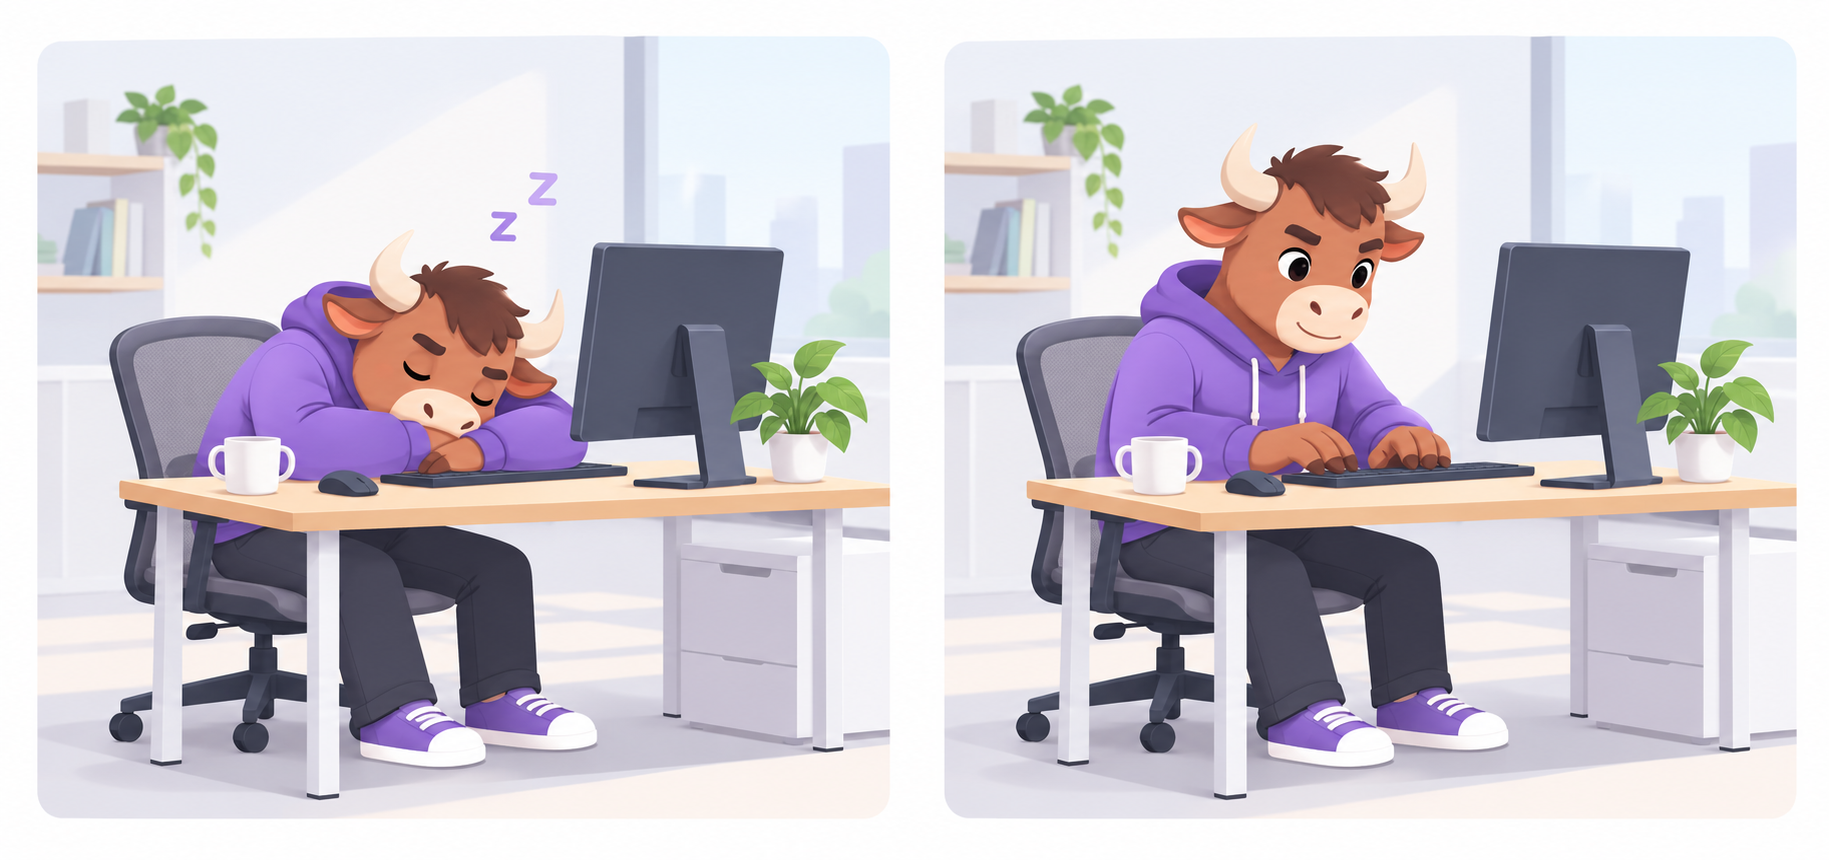
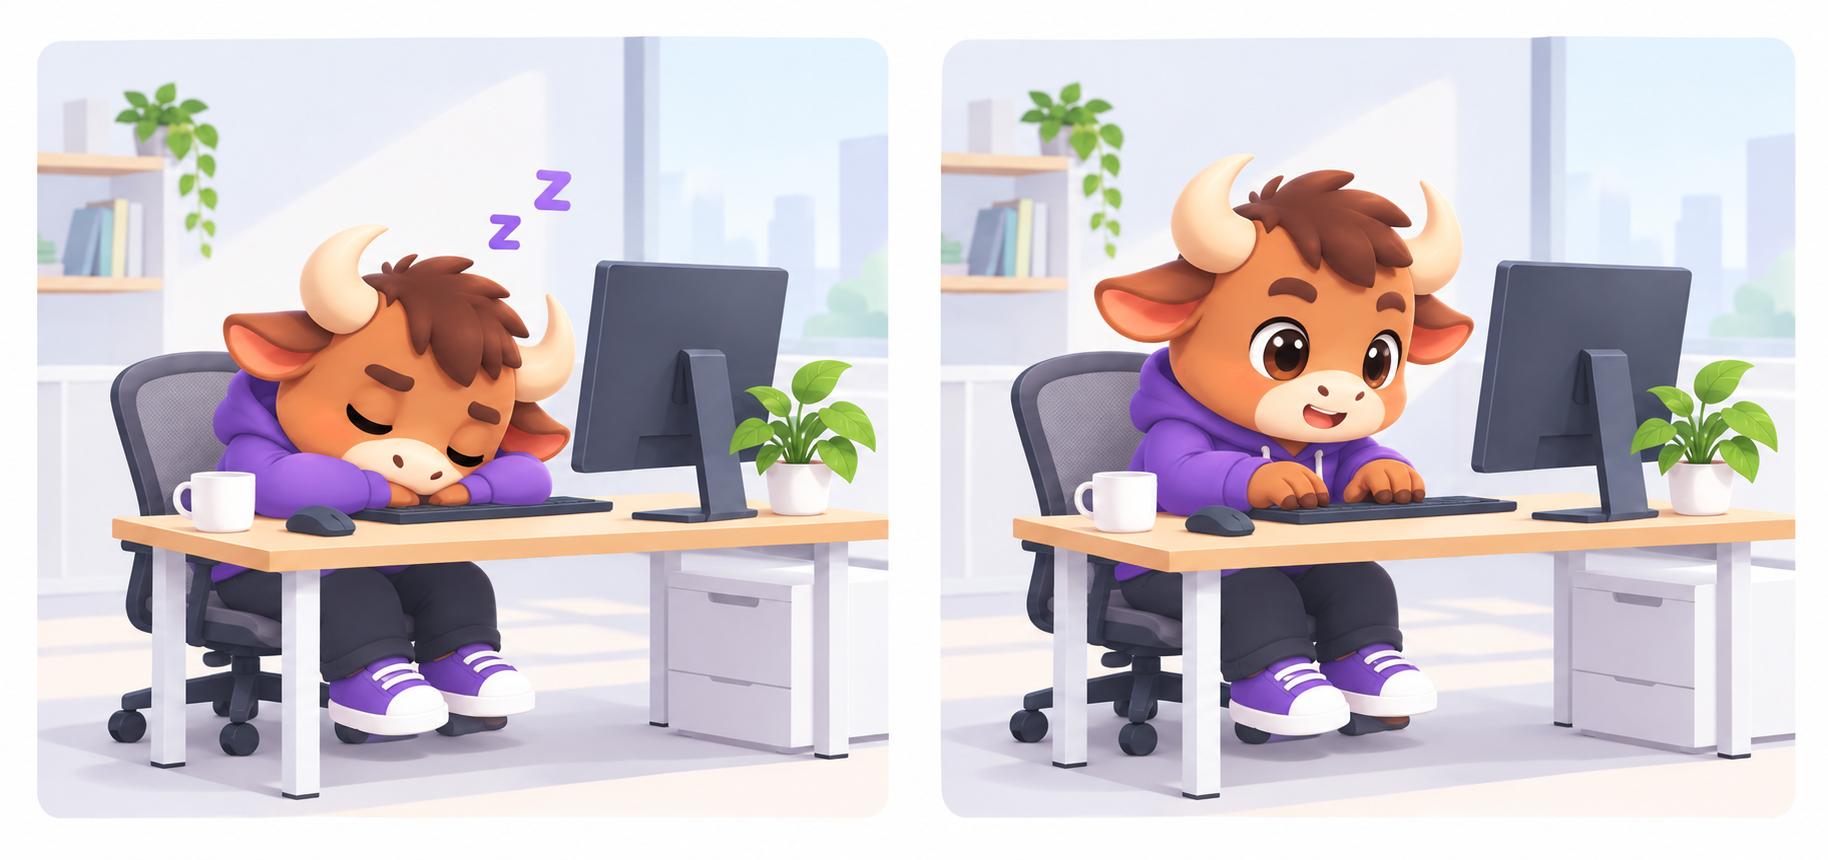
style: show five chibi workstations per row

diff --git a/web/styles.css b/web/styles.css
@@ -712,7 +712,7 @@ td code { color: #596574; font-size: 10px; }
 .workstation-zone-identity strong { color: #34404d; font-size: var(--type-small); }
 .workstation-zone-summary { display: inline-flex; align-items: center; gap: 5px; flex: 0 0 auto; padding: 4px 8px; color: var(--zone-accent); background: var(--zone-soft); border-radius: 999px; font-size: clamp(10.5px, calc(8px + .14vw), 12px); font-weight: 800; }
 .workstation-zone-summary i { width: 6px; height: 6px; background: var(--zone-accent); border-radius: 50%; }
-.workstation-zone-grid { display: grid; grid-template-columns: repeat(3, minmax(0, 1fr)); gap: 7px; padding: 2px 9px 8px; }
+.workstation-zone-grid { display: grid; grid-template-columns: repeat(5, minmax(0, 1fr)); gap: 7px; padding: 2px 9px 8px; }
 .workstation-zone-empty { grid-column: 1 / -1; display: grid; place-items: center; min-height: 48px; color: #98a1ac; background: #fff; border: 1px dashed #d8dee4; border-radius: 8px; font-size: var(--type-caption); }
 .workstation-card { display: block; min-width: 0; padding: 0; overflow: hidden; color: inherit; background: #fff; border: 1px solid #fff; border-radius: 8px; box-shadow: 0 2px 8px rgba(32, 43, 55, .075); text-align: left; }
 .workstation-person-name { position: absolute; z-index: 2; top: 5px; left: 5px; max-width: 60%; overflow: hidden; padding: 3px 7px; color: #34404d; background: rgba(255,255,255,.9); border: 1px solid rgba(218,225,231,.92); border-radius: 999px; box-shadow: 0 2px 6px rgba(35,45,56,.07); font-size: clamp(10.5px, calc(8px + .14vw), 12px); font-weight: 850; text-overflow: ellipsis; white-space: nowrap; backdrop-filter: blur(5px); }
